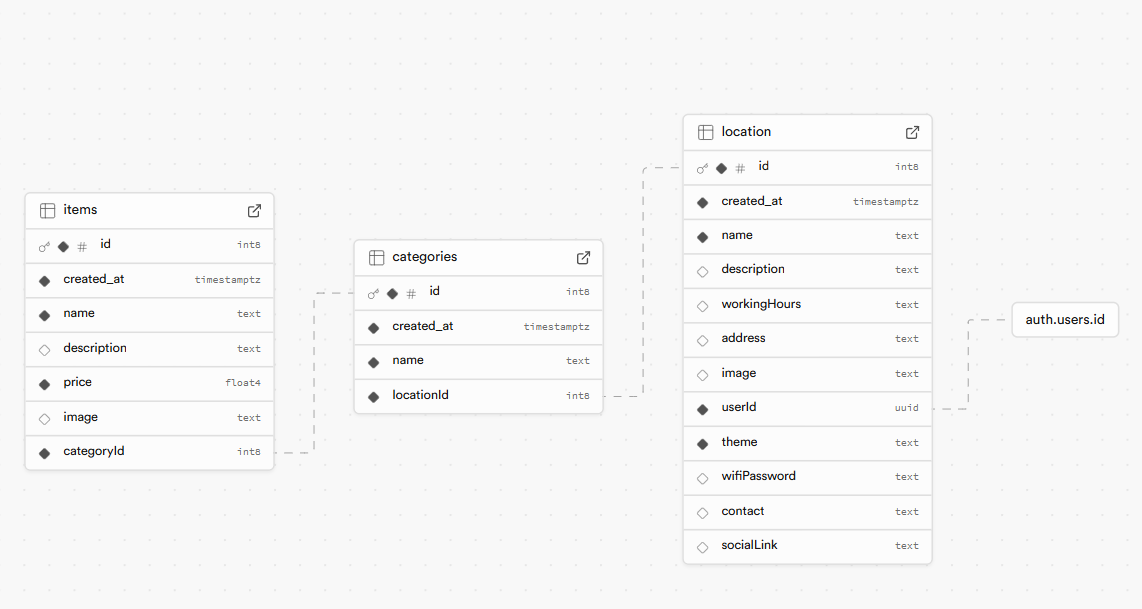
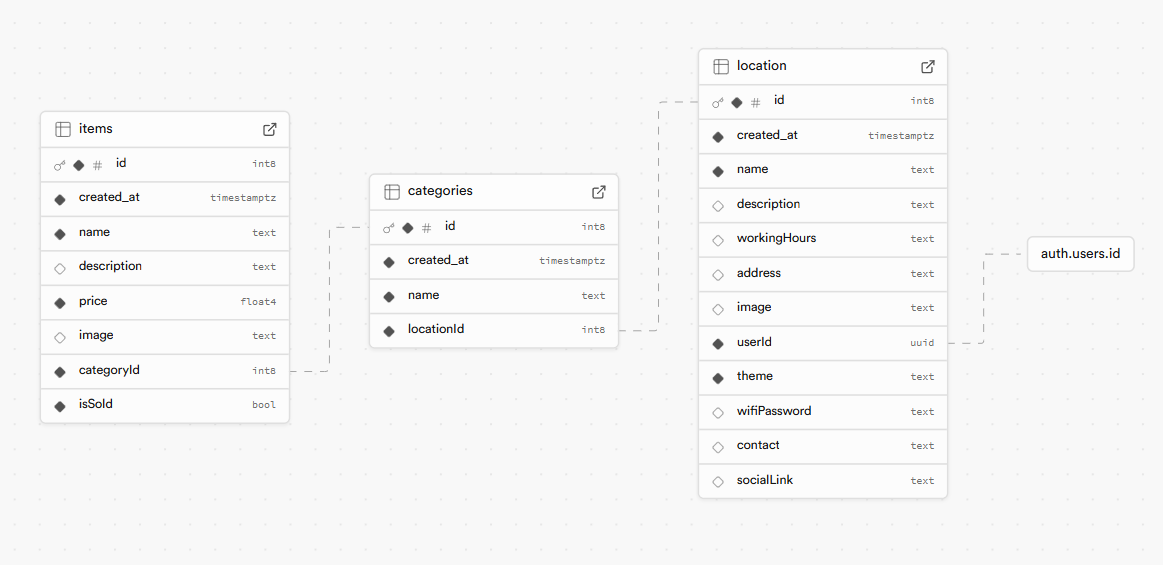
finsihed mark items as sold

diff --git a/src/features/menus/CategoryItemsList/CategoryItemsList.jsx b/src/features/menus/CategoryItemsList/CategoryItemsList.jsx
@@ -33,7 +33,9 @@ function CategoryItemsList({ onOpen }) {
           return (
             <li onClick={() => onOpen(item)} key={item.id}>
               <div>
-                <h3>{item.name}</h3>
+                <h3 className={item.isSold ? styles.soldTitle : ""}>
+                  {item.name}
+                </h3>
                 <p className={styles.items}>
                   {" "}
                   {clampDescription(item.description)}

diff --git a/src/pages/Menus/MenusCommon.module.css b/src/pages/Menus/MenusCommon.module.css
@@ -174,7 +174,12 @@
 }
 
 .soldOutImage {
+  filter: opacity(60%);
+}
+
+.soldTitle {
   filter: opacity(70%);
+  text-decoration: line-through;
 }
 
 /* MODAL WINDOW STYLES */

diff --git a/README.md b/README.md
@@ -49,6 +49,10 @@ Scan&Sip is a **Mobile-first digital menu solution** designed for cafes, bars, a
 
 - Toggle between light and dark themes.
 
+✔ Item Availability Management
+
+- Easily mark items as sold out to prevent customers from ordering unavailable items.
+
 ✔ **Onboarding Wizard**
 
 - Guided setup for new users.
@@ -103,6 +107,8 @@ Scan&Sip is a **Mobile-first digital menu solution** designed for cafes, bars, a
 ## Database
 
 <img src="./images/db.png" width="100%"/>
+
+Database type: PostgreSQL
 
 For detailed information about the database structure and relationships, refer to the diagram above.
 
